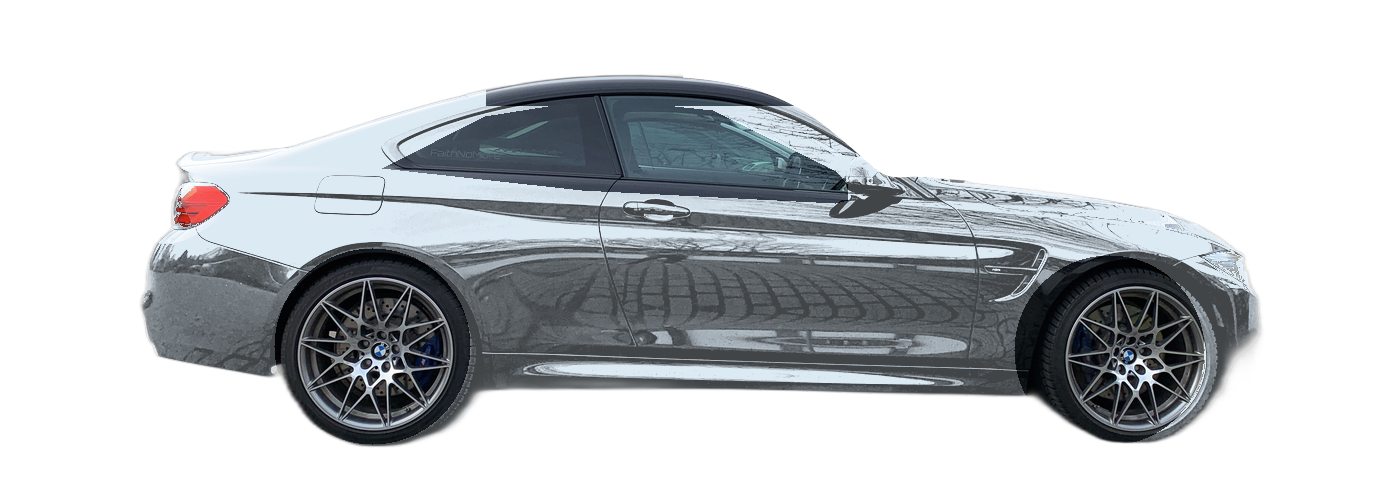
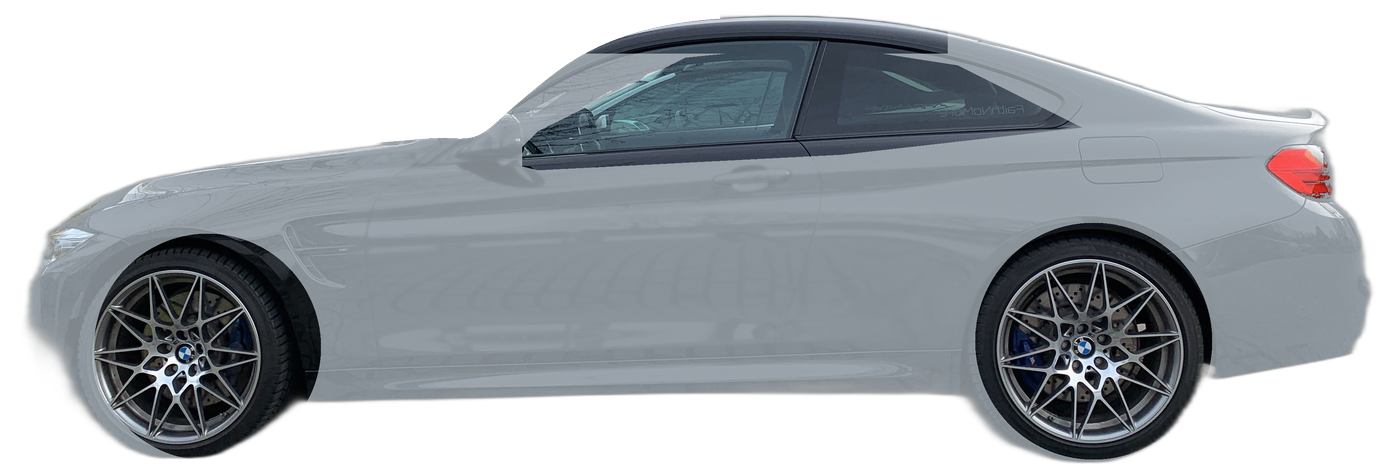
feat(garage): unify vehicle facing direction to left and optimize garage display toggle UI

diff --git a/frontend/src/features/my/GarageSection.tsx b/frontend/src/features/my/GarageSection.tsx
@@ -235,7 +235,7 @@ export function GarageSection({ prefs, update }: GarageSectionProps) {
                 <div className="flex items-start justify-between gap-2">
                   <div className="flex items-center gap-1.5">
                     {isActive ? (
-                      <span className="inline-flex items-center gap-1 rounded-full bg-accent px-2 py-0.5 text-[11px] font-semibold text-white shadow-xs">
+                      <span className="inline-flex items-center gap-1.5 rounded-full bg-emerald-500/10 px-2.5 py-0.5 text-[11px] font-semibold text-emerald-600 dark:bg-emerald-500/20 dark:text-emerald-400 border border-emerald-500/20 shadow-xs">
                         <CheckCircleIcon size={13} weight="fill" />
                         <span>{t('garage.activeBadge')}</span>
                       </span>
@@ -323,23 +323,27 @@ export function GarageSection({ prefs, update }: GarageSectionProps) {
                 </div>
 
                 {/* Appearance Customization Bar: Color & Authentic Photo */}
-                <div className="my-1 flex flex-col gap-1.5 rounded-xl bg-sunken/40 p-2 text-xs">
-                  <div className="flex items-center justify-between">
-                    <div className="flex items-center gap-2">
+                <div className="my-1.5 flex flex-col gap-2 rounded-xl bg-sunken/40 p-2.5 text-xs border border-line/40">
+                  <div className="flex items-center justify-between gap-2">
+                    {/* Display Mode Segmented Control */}
+                    <div className="inline-flex items-center rounded-lg bg-surface p-0.5 border border-line/60 shadow-2xs">
                       <button
                         type="button"
                         onClick={() => {
-                          setEditingColorId(editingColorId === car.id ? null : car.id)
+                          if (car.imageUrl) {
+                            handlePhotoChange(car.id, undefined)
+                          }
+                          setEditingColorId(car.id)
                           setEditingPhotoId(null)
                         }}
-                        className="inline-flex items-center gap-1.5 rounded-lg px-1.5 py-0.5 text-[11px] font-medium text-muted transition hover:bg-surface hover:text-ink"
+                        className={`inline-flex items-center gap-1.5 rounded-md px-2 py-1 text-[11px] font-medium transition ${
+                          !car.imageUrl && editingPhotoId !== car.id
+                            ? 'bg-accent text-white shadow-2xs font-semibold'
+                            : 'text-muted hover:text-ink'
+                        }`}
                         aria-label={t('garage.color')}
                       >
-                        <span
-                          className="size-3.5 rounded-full border border-line shadow-2xs shrink-0"
-                          style={{ backgroundColor: currentColor }}
-                        />
-                        <PaletteIcon size={13} className="text-muted" />
+                        <PaletteIcon size={13} />
                         <span>{t('garage.color')}</span>
                       </button>
 
@@ -350,47 +354,51 @@ export function GarageSection({ prefs, update }: GarageSectionProps) {
                           setEditingColorId(null)
                           setPhotoInputUrl(car.imageUrl || '')
                         }}
-                        className={`inline-flex items-center gap-1.5 rounded-lg px-1.5 py-0.5 text-[11px] font-medium transition ${
-                          car.imageUrl
-                            ? 'bg-accent/10 text-accent font-semibold'
-                            : 'text-muted hover:bg-surface hover:text-ink'
+                        className={`inline-flex items-center gap-1.5 rounded-md px-2 py-1 text-[11px] font-medium transition ${
+                          car.imageUrl || editingPhotoId === car.id
+                            ? 'bg-accent text-white shadow-2xs font-semibold'
+                            : 'text-muted hover:text-ink'
                         }`}
                         aria-label={t('garage.photo')}
                       >
                         <CameraIcon size={13} />
                         <span>{t('garage.photo')}</span>
-                        {car.imageUrl ? <span className="size-1.5 rounded-full bg-accent" /> : null}
+                        {car.imageUrl ? <span className="size-1.5 rounded-full bg-emerald-400" /> : null}
                       </button>
                     </div>
 
+                    {/* Active State / Color Name Pill */}
                     {(() => {
                       const carPresets = getVehicleColorPresets(car.label)
                       const matchedPreset = carPresets.find(
                         (p) => p.hex.toLowerCase() === currentColor.toLowerCase(),
                       )
                       const displayName = matchedPreset ? (isZh ? matchedPreset.labelZh : matchedPreset.name) : currentColor
+                      if (car.imageUrl) {
+                        return (
+                          <span className="inline-flex items-center gap-1 rounded-md bg-accent-soft/40 px-2 py-0.5 text-[11px] font-medium text-accent">
+                            <CameraIcon size={12} />
+                            <span>{t('garage.customPhotoActive')}</span>
+                          </span>
+                        )
+                      }
                       return (
-                        <button
-                          type="button"
-                          onClick={() => {
-                            setEditingColorId(editingColorId === car.id ? null : car.id)
-                            setEditingPhotoId(null)
-                          }}
-                          className="flex items-center gap-1.5 rounded-md px-1.5 py-0.5 text-[11px] font-medium text-muted hover:bg-surface hover:text-ink transition"
+                        <div
+                          className="flex items-center gap-1.5 rounded-md px-2 py-0.5 text-[11px] font-medium text-ink bg-surface/80 border border-line/40 shadow-2xs"
                           title={displayName}
                         >
                           <span
                             className="size-2.5 rounded-full border border-line shrink-0"
                             style={{ backgroundColor: currentColor }}
                           />
-                          <span>{displayName}</span>
-                        </button>
+                          <span className="truncate max-w-[140px]">{displayName}</span>
+                        </div>
                       )
                     })()}
                   </div>
 
                   {/* Photo Customization Panel */}
-                  {editingPhotoId === car.id ? (
+                  {editingPhotoId === car.id || (car.imageUrl && editingColorId !== car.id) ? (
                     <div className="flex flex-col gap-2 pt-2 border-t border-line/40">
                       <div className="flex items-center gap-1.5">
                         <input
@@ -398,7 +406,7 @@ export function GarageSection({ prefs, update }: GarageSectionProps) {
                           value={photoInputUrl}
                           onChange={(e) => setPhotoInputUrl(e.target.value)}
                           placeholder={t('garage.photoUrlPlaceholder')}
-                          className="flex-1 min-w-0 rounded-lg border border-line bg-surface px-2 py-1 text-xs text-ink placeholder:text-muted/60 focus:border-accent focus:outline-none"
+                          className="flex-1 min-w-0 rounded-lg border border-line bg-surface px-2.5 py-1 text-xs text-ink placeholder:text-muted/60 focus:border-accent focus:outline-none"
                         />
                         <Button
                           variant="secondary"
@@ -411,8 +419,8 @@ export function GarageSection({ prefs, update }: GarageSectionProps) {
 
                       <div className="flex flex-wrap items-center gap-2 text-[11px]">
                         {/* File Upload Trigger */}
-                        <label className="inline-flex cursor-pointer items-center gap-1 rounded-md bg-surface px-2 py-1 text-muted border border-line hover:text-ink hover:border-ink/40 transition">
-                          <PlusIcon size={11} />
+                        <label className="inline-flex cursor-pointer items-center gap-1.5 rounded-md bg-surface px-2.5 py-1 text-ink border border-line hover:border-accent hover:text-accent transition shadow-2xs font-medium">
+                          <PlusIcon size={12} />
                           <span>{t('garage.uploadPhoto')}</span>
                           <input
                             type="file"
@@ -429,8 +437,8 @@ export function GarageSection({ prefs, update }: GarageSectionProps) {
                         {resolveVehiclePhoto(car.label, null, car.color) ? (
                           <button
                             type="button"
-                            onClick={() => handlePhotoChange(car.id, resolveVehiclePhoto(car.label, null, car.color)!)}
-                            className="inline-flex items-center gap-1 rounded-md bg-accent-soft/40 px-2 py-1 text-accent hover:bg-accent-soft transition font-medium"
+                            onClick={() => handlePhotoChange(car.id, undefined)}
+                            className="inline-flex items-center gap-1 rounded-md bg-accent-soft/40 px-2.5 py-1 text-accent hover:bg-accent-soft transition font-medium"
                           >
                             <span>✓ {t('garage.useStudioPhoto')}</span>
                           </button>
@@ -439,28 +447,29 @@ export function GarageSection({ prefs, update }: GarageSectionProps) {
                             type="button"
                             disabled={isSearchingPhoto === car.id}
                             onClick={() => handleAutoFetchPhoto(car.id, car.label)}
-                            className="inline-flex items-center gap-1 rounded-md bg-accent-soft/40 px-2 py-1 text-accent hover:bg-accent-soft transition font-medium disabled:opacity-50"
+                            className="inline-flex items-center gap-1.5 rounded-md bg-accent-soft/40 px-2.5 py-1 text-accent hover:bg-accent-soft transition font-medium disabled:opacity-50"
                           >
                             <span>{isSearchingPhoto === car.id ? '...' : `🌐 ${t('garage.autoFetchPhoto')}`}</span>
                           </button>
                         )}
 
-                        {/* Clear Photo / Revert to Vector */}
+                        {/* Clear Photo / Revert to Studio */}
                         {car.imageUrl ? (
                           <button
                             type="button"
                             onClick={() => handlePhotoChange(car.id, undefined)}
                             className="inline-flex items-center gap-1 text-rose-500 hover:underline ml-auto"
                           >
-                            <span>{t('garage.clearPhoto')}</span>
+                            <span>✕ {t('garage.clearPhoto')}</span>
                           </button>
                         ) : null}
                       </div>
                     </div>
                   ) : null}
 
-                  {editingColorId === car.id ? (
-                    <div className="flex flex-wrap items-center gap-2 pt-2 border-t border-line/40">
+                  {/* Factory Color Swatches */}
+                  {!car.imageUrl && (editingColorId === car.id || editingPhotoId !== car.id) ? (
+                    <div className="flex flex-wrap items-center gap-2 pt-1.5 border-t border-line/40">
                       <div className="flex flex-wrap items-center gap-1.5">
                         {getVehicleColorPresets(car.label).map((preset) => {
                           const isSelected = currentColor.toLowerCase() === preset.hex.toLowerCase()
@@ -468,11 +477,18 @@ export function GarageSection({ prefs, update }: GarageSectionProps) {
                             <button
                               key={preset.id}
                               type="button"
-                              onClick={() => handleColorChange(car.id, preset.hex)}
+                              onClick={() => {
+                                handleColorChange(car.id, preset.hex)
+                                if (car.imageUrl) {
+                                  handlePhotoChange(car.id, undefined)
+                                }
+                              }}
                               title={isZh ? preset.labelZh : preset.name}
                               aria-label={isZh ? preset.labelZh : preset.name}
-                              className={`size-5 rounded-full border transition-transform hover:scale-115 ${
-                                isSelected ? 'ring-2 ring-accent ring-offset-1 scale-110 border-transparent' : 'border-line/70'
+                              className={`size-5 rounded-full border transition-all hover:scale-120 ${
+                                isSelected
+                                  ? 'ring-2 ring-accent ring-offset-2 ring-offset-surface scale-110 border-transparent shadow-xs'
+                                  : 'border-line/70 hover:border-ink/60'
                               }`}
                               style={{ backgroundColor: preset.hex }}
                             />
@@ -481,10 +497,12 @@ export function GarageSection({ prefs, update }: GarageSectionProps) {
                       </div>
 
                       {/* Reset to Factory Original Color */}
-                      {currentColor.toLowerCase() !== '#ffffff' && currentColor.toLowerCase() !== '#f8fafc' ? (
+                      {currentColor.toLowerCase() !== '#ffffff' &&
+                       currentColor.toLowerCase() !== '#f8fafc' &&
+                       currentColor.toLowerCase() !== '#faf9fb' ? (
                         <button
                           type="button"
-                          onClick={() => handleColorChange(car.id, '#f8fafc')}
+                          onClick={() => handleColorChange(car.id, '#faf9fb')}
                           className="ml-auto inline-flex items-center gap-1 text-[11px] text-muted hover:text-ink hover:underline"
                         >
                           <span>{t('garage.resetColor')}</span>

diff --git a/frontend/src/i18n/en.ts b/frontend/src/i18n/en.ts
@@ -712,9 +712,10 @@ export const en = {
   "garage.archetype.wagon": "Station Wagon",
   "garage.archetype.van": "Minivan",
   "garage.color": "Factory Color",
+  "garage.customPhotoActive": "Custom Photo Active",
   "garage.customColor": "Custom color",
   "garage.colorPicker": "Color Palette",
-  "garage.resetColor": "Reset Color",
+  "garage.resetColor": "Reset to factory",
   "garage.photo": "Vehicle Photo",
   "garage.photoUrlPlaceholder": "Paste image URL (e.g. from Carvana)",
   "garage.uploadPhoto": "Upload",

diff --git a/frontend/src/i18n/ja.ts b/frontend/src/i18n/ja.ts
@@ -691,6 +691,7 @@ export const ja: Record<MessageKey, string> = {
   "garage.archetype.wagon": "ステーションワゴン",
   "garage.archetype.van": "ミニバン",
   "garage.color": "純正ボディカラー",
+  "garage.customPhotoActive": "カスタム写真表示中",
   "garage.customColor": "カスタムカラー",
   "garage.colorPicker": "カラーパレット",
   "garage.resetColor": "純正色に戻す",

diff --git a/frontend/src/i18n/es.ts b/frontend/src/i18n/es.ts
@@ -712,6 +712,7 @@ export const es: Record<MessageKey, string> = {
   "garage.archetype.wagon": "Familiar",
   "garage.archetype.van": "Monovolumen",
   "garage.color": "Color de fábrica",
+  "garage.customPhotoActive": "Foto personalizada activa",
   "garage.customColor": "Color personalizado",
   "garage.colorPicker": "Paleta de colores",
   "garage.resetColor": "Restablecer color",

diff --git a/frontend/src/i18n/ko.ts b/frontend/src/i18n/ko.ts
@@ -691,6 +691,7 @@ export const ko: Record<MessageKey, string> = {
   "garage.archetype.wagon": "왜건",
   "garage.archetype.van": "미니밴",
   "garage.color": "순정 차량 색상",
+  "garage.customPhotoActive": "커스텀 사진 표시 중",
   "garage.customColor": "커스텀 색상",
   "garage.colorPicker": "컬러 팔레트",
   "garage.resetColor": "순정 색상 복원",

diff --git a/frontend/src/i18n/zh-CN.ts b/frontend/src/i18n/zh-CN.ts
@@ -712,6 +712,7 @@ export const zhCN: Record<MessageKey, string> = {
   "garage.archetype.wagon": "旅行车",
   "garage.archetype.van": "厢型休旅",
   "garage.color": "原厂车色",
+  "garage.customPhotoActive": "自定义照片显示中",
   "garage.customColor": "自定义车色",
   "garage.colorPicker": "调色板选色",
   "garage.resetColor": "恢复出厂色",

diff --git a/frontend/src/i18n/zh-TW.ts b/frontend/src/i18n/zh-TW.ts
@@ -712,6 +712,7 @@ export const zhTW: Record<MessageKey, string> = {
   "garage.archetype.wagon": "旅行車",
   "garage.archetype.van": "廂型休旅",
   "garage.color": "原廠車色",
+  "garage.customPhotoActive": "自訂照片顯示中",
   "garage.customColor": "自訂車色",
   "garage.colorPicker": "調色盤選色",
   "garage.resetColor": "還原原廠色",

diff --git a/frontend/src/lib/vehicleStyle.ts b/frontend/src/lib/vehicleStyle.ts
@@ -460,7 +460,7 @@ function parseHexRgb(hex: string): [number, number, number] | null {
   return null
 }
 
-export const VEHICLE_IMAGE_CACHE_VERSION = '20261107v1'
+export const VEHICLE_IMAGE_CACHE_VERSION = '20261107v2'
 
 /**
  * Resolves color-accurate, transparent cut-out photograph for the 2018 Mercedes-Benz E400 Coupe.
